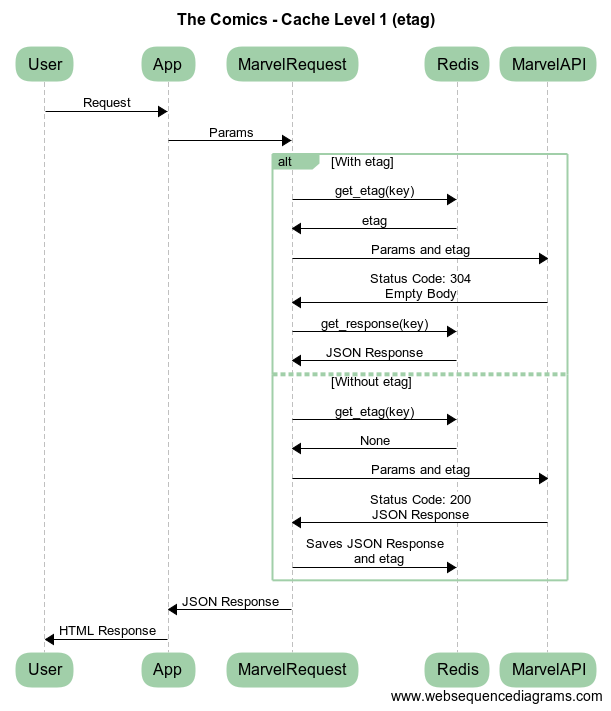
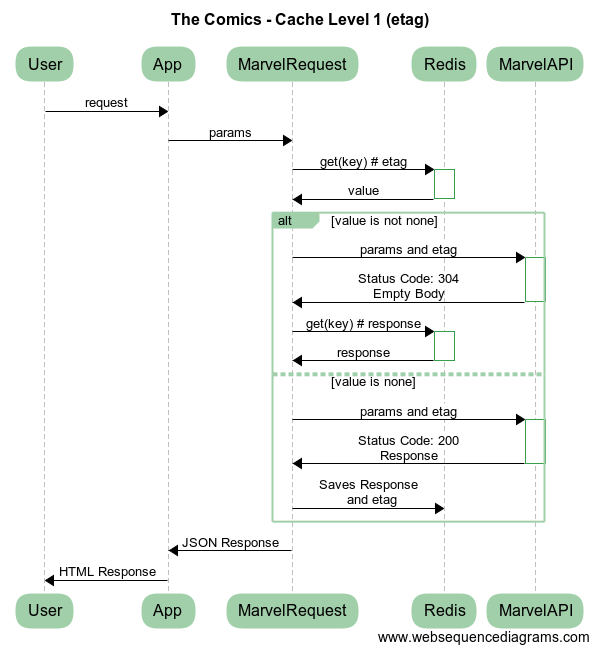
Add some information about caching.

diff --git a/README.md b/README.md
@@ -39,10 +39,29 @@ character picture.
 
 
 
-# Application Services Map
+# Some Implementation Highlights
+
+
+## Application Services Map
 
 
 ![Services Map](https://raw.githubusercontent.com/fernandoe/the-comics/master/sandbox/docs/images/services-map.png)
+
+
+
+
+## Cache Level 1 - etag
+
+
+![Cache Level 1](https://raw.githubusercontent.com/fernandoe/the-comics/master/sandbox/docs/images/cache-level-1.png)
+
+
+
+
+## Cache Level 2 - Application
+
+
+![Cache Level 2](https://raw.githubusercontent.com/fernandoe/the-comics/master/sandbox/docs/images/cache-level-2.png)
 
 
 
